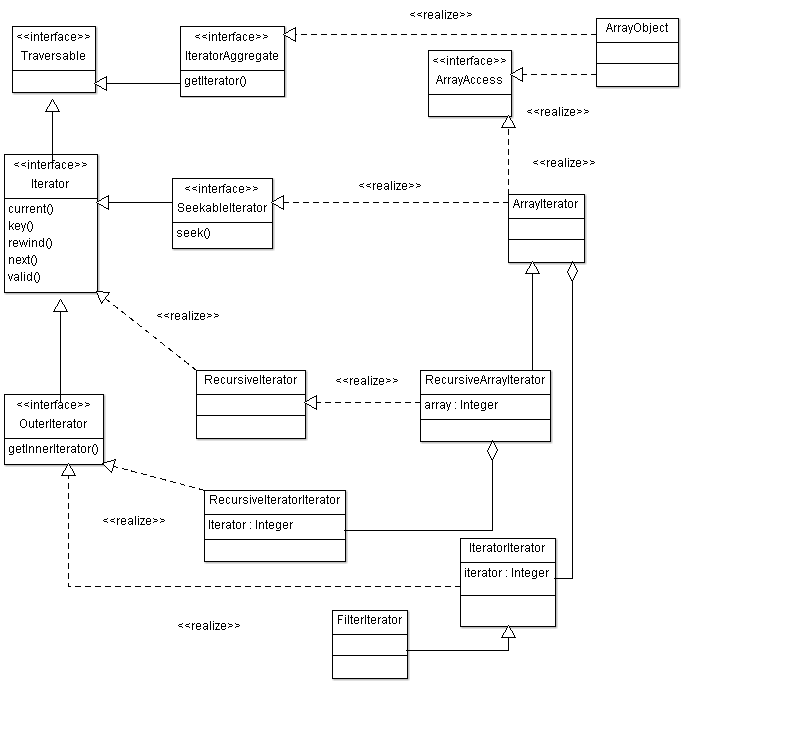
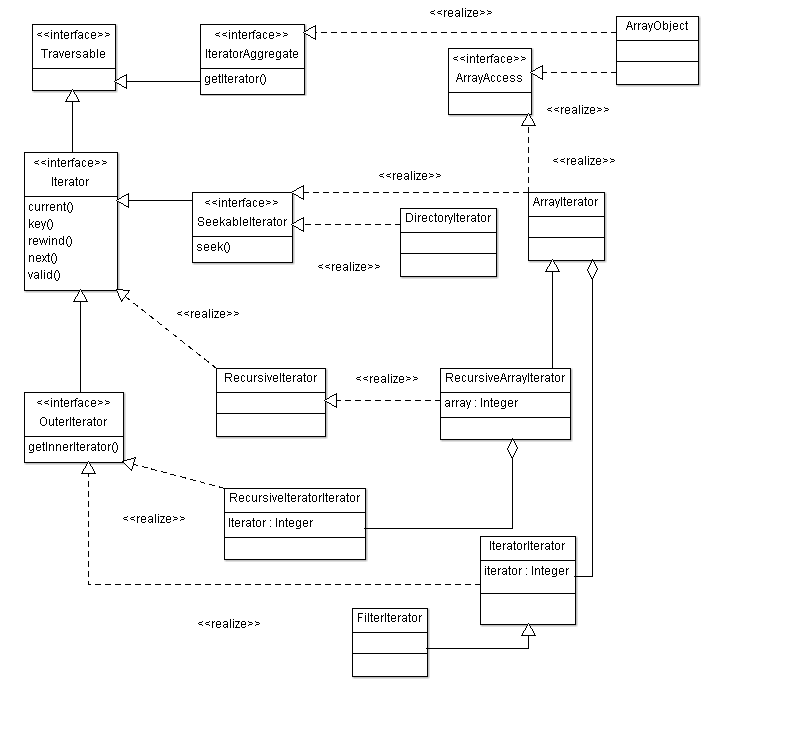
directory_iterator

diff --git a/filter_iterator.php b/filter_iterator.php
@@ -2,7 +2,7 @@
 /*
  * a l'initialisation de IteratorIterator, le curseur est à la fin. Il faut alors le rewind avant de pouvoir parcourir
  * quand on redefinit rewind() dans FilterIterator, cela empèche de fonctionner accept()
- * D'où la création de la calss MonIterator qui permet de modifier la façon dont le tableau est parcouru grace à current()
+ * D'où la création de la calss PDOIterator qui permet de modifier la façon dont le tableau est parcouru grace à current()
  * 
  * 
  * SQL pour l'exemple :
@@ -30,7 +30,7 @@ INSERT INTO `liste2teste` (`id`, `valeur`, `nom`, `description`) VALUES
  */
 
 
-class MonIterator extends ArrayIterator {
+class PDOIterator extends ArrayIterator {
     
     protected $_array;
     protected $_champ;
@@ -75,10 +75,10 @@ class PDOFilter extends FilterIterator {
     protected $_iterator;
     protected $_filtre;
 
-    function __construct($iterator,$filtre = self::PAIR) {
-        $this->_iterator  = $iterator;
+    function __construct($Iterator,$filtre = self::PAIR) {
+        $this->_iterator  = $Iterator;
         $this->set_filtre($filtre);
-        parent::__construct($iterator);
+        parent::__construct($Iterator);
     }
     
     public function set_filtre ($filtre) {
@@ -108,31 +108,30 @@ $Resultat = $Pdo->query('SELECT * FROM liste2teste ');
 $liste = $Resultat->fetchAll(PDO::FETCH_ASSOC);
 var_dump($liste);
 
-echo '<h1>Filtre des infos dont valeur est Pair</h1>';
+echo '<h1>Filtre des infos dont valeur est impair</h1>';
 
-$iterator = new MonIterator($liste,'valeur');
-$iterator_iterator = new PDOFilter($iterator,PDOFilter::IMPAIR);
+$Iterator = new PDOIterator($liste,'valeur');
+$Iterator_iterator = new PDOFilter($Iterator,PDOFilter::IMPAIR);
 
 echo '<h2>avec foreach</h2>';
-foreach ($iterator_iterator as $number) {
+foreach ($Iterator_iterator as $number) {
 var_dump($number);
 }
 
 echo '<h2>avec while</h2>';
-$iterator_iterator->rewind();
-while ($entre = $iterator_iterator->current()){
+$Iterator_iterator->rewind();
+while ($entre = $Iterator_iterator->current()){
     var_dump($entre);
-    $iterator_iterator->next();
+    $Iterator_iterator->next();
 }
 
 echo '<h1>Filtre des infos dont description comporte c</h1>';
-$iterator->set_champs('description');
-$iterator_iterator->set_filtre('c');
+$Iterator->set_champs('description');
+$Iterator_iterator->set_filtre('c');
 
 echo '<h2>avec while</h2>';
-$iterator_iterator->rewind();
-while ($entre = $iterator_iterator->current()){
+$Iterator_iterator->rewind();
+while ($entre = $Iterator_iterator->current()){
     var_dump($entre);
-    $iterator_iterator->next();
+    $Iterator_iterator->next();
 }
-

diff --git a/index.php b/index.php
@@ -19,18 +19,21 @@
         <p>L'Objet est mis dans l'intérateur [Association] et c'est lui qui parcourt les attributs de l'Objet </p>
         <p>RecursiveArrayIterator hérite de ArrayIterator et implémente RecursiveIterator<br />
         puis est parcouru autravers de l'objet RecursiveIteratorIterator ou de la methode iterator_apply</p>
-        
+
         <p> les iterators recusifs permettent de parcourir des structures avec différentes branches.<br />
             On "pose" un itétateur (RecursiveArrayIterator) puis on "l'encapsule" dans un IteratorIterator (RecursiveIteratorIterator).<br />
             $IteratorIterator ($Iterator ($Objet))).<br />
             On peut alors parcourir avec $IteratorIterator->next(), $IteratorIterator->current() et donc foreach ($IteratorIterator as $attribut)
         </p>
-        
+
         <p> quelques exemples  </p>
         <h2>Inner Iterator</h2>filter_iterator
         <p><a href="iterator.php">Iterator</a> | <a href="seekable_iterator.php">SeekableIterator</a> | <a href="iterator_aggregate.php">IteratorAggregate</a> | <a href="mon_array.php">mon_array</a> | <a href="foreach.php">foreach</a> </p>
         <h2>Outer Iterator</h2>
         <p><a href="filter_iterator.php">FilterIterator</a> | <a href="iterator_iterator.php">iterator_iterator</a> | <a href="recursive_iterator_iterator.php">RecursiveIteratorIterator</a></p>
+
+        <p>| <a href="directory_iterator.php">DirectoryIterator</a>
+
         <p><img src="Diagrammedeclasses.png" alt="Diagramme des Objets"> </p>
     </body>
 </html>

diff --git a/directory_iterator.php b/directory_iterator.php
@@ -1,0 +1,59 @@
+<?php
+
+class MonFilter extends FilterIterator {
+
+    protected $_iterator;
+    protected $_filtre;
+    protected $_valeur;
+            
+    function __construct($Iterator,$filtre = NULL) {
+        $this->_iterator  = $Iterator;
+        $this->set_filtre($filtre);
+
+        parent::__construct($Iterator);
+    }
+    
+    public function set_filtre ($filtre) {
+        $this->_filtre = $filtre;
+    }
+
+    public function accept() {
+        
+        $this->_valeur = $this->current()->getFilename();
+        
+        if ($this->_iterator->isDot())
+            return FALSE;
+        
+        else if (is_string ($this->_filtre))
+            return  strstr($this->_valeur,$this->_filtre);
+
+        else
+            return TRUE;
+    }
+    
+    public function valeur() {
+        return $this->_valeur;
+    }
+    
+    public function afficher_valeur() {
+
+        echo $this->_valeur.'<br />'.PHP_EOL;
+    }
+}
+
+$DirectoryIterator = new DirectoryIterator('./rep1');
+
+$Iterator_iterator = new MonFilter($DirectoryIterator);
+?>
+
+<style>
+    
+</style>
+<h2>avec while</h2>
+
+<?php
+$Iterator_iterator->rewind();
+while($Iterator_iterator->valid()){
+    $Iterator_iterator->afficher_valeur();
+    $Iterator_iterator->next();
+}
